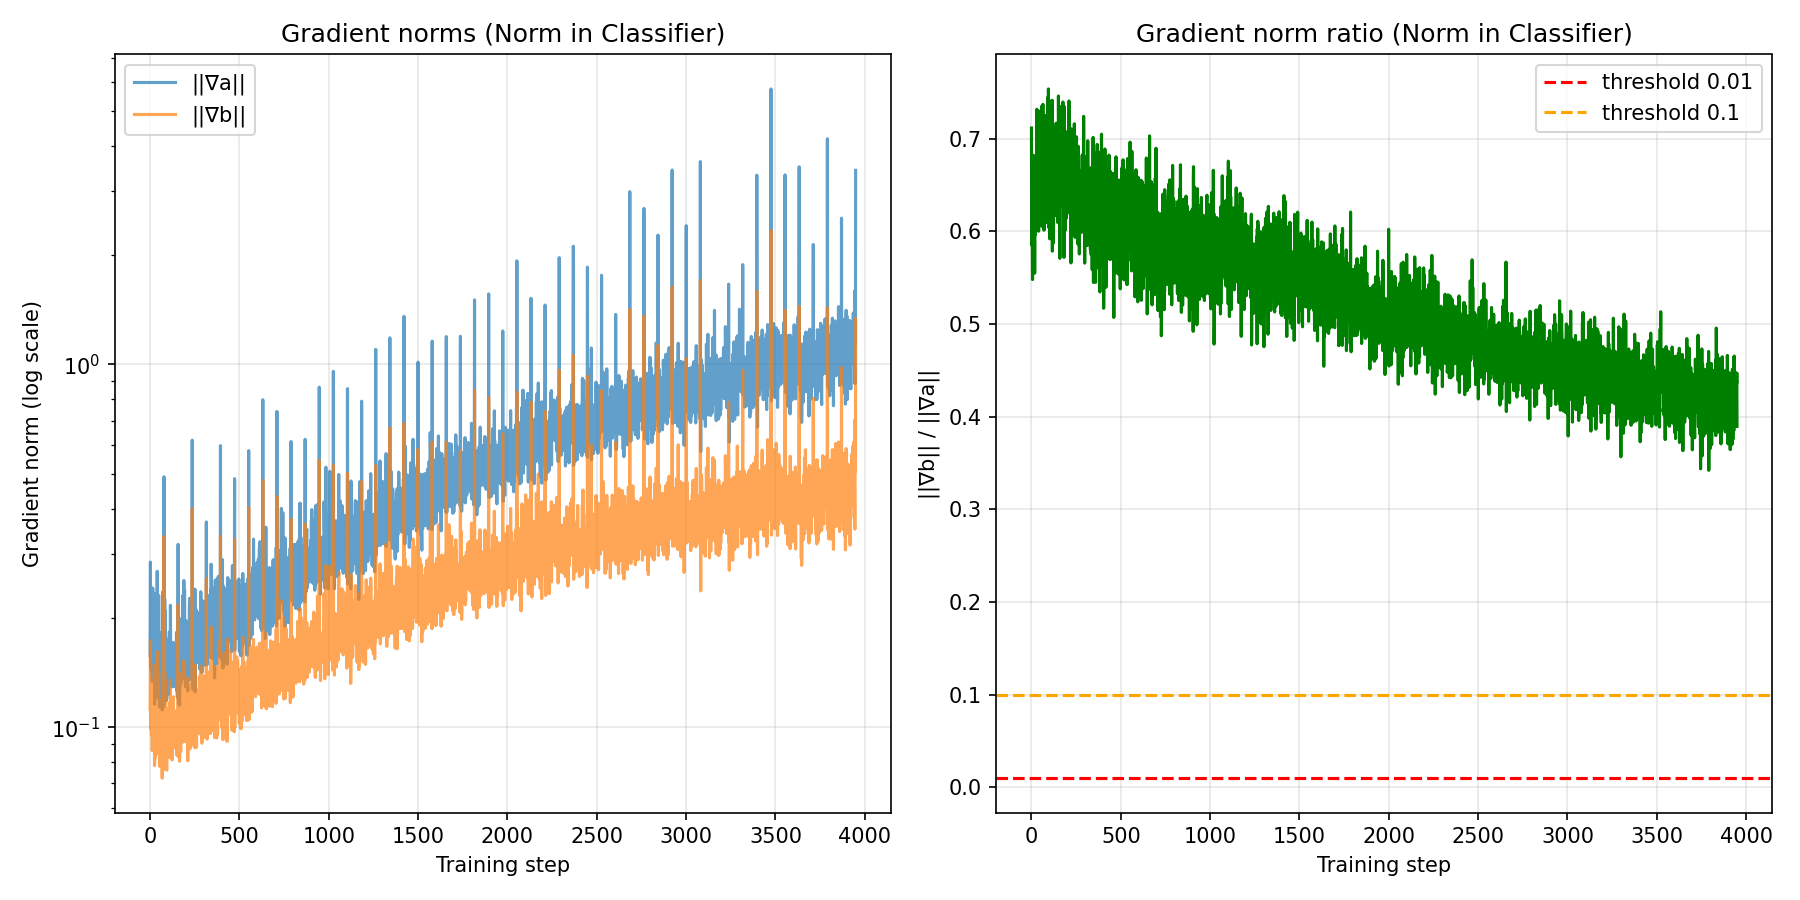
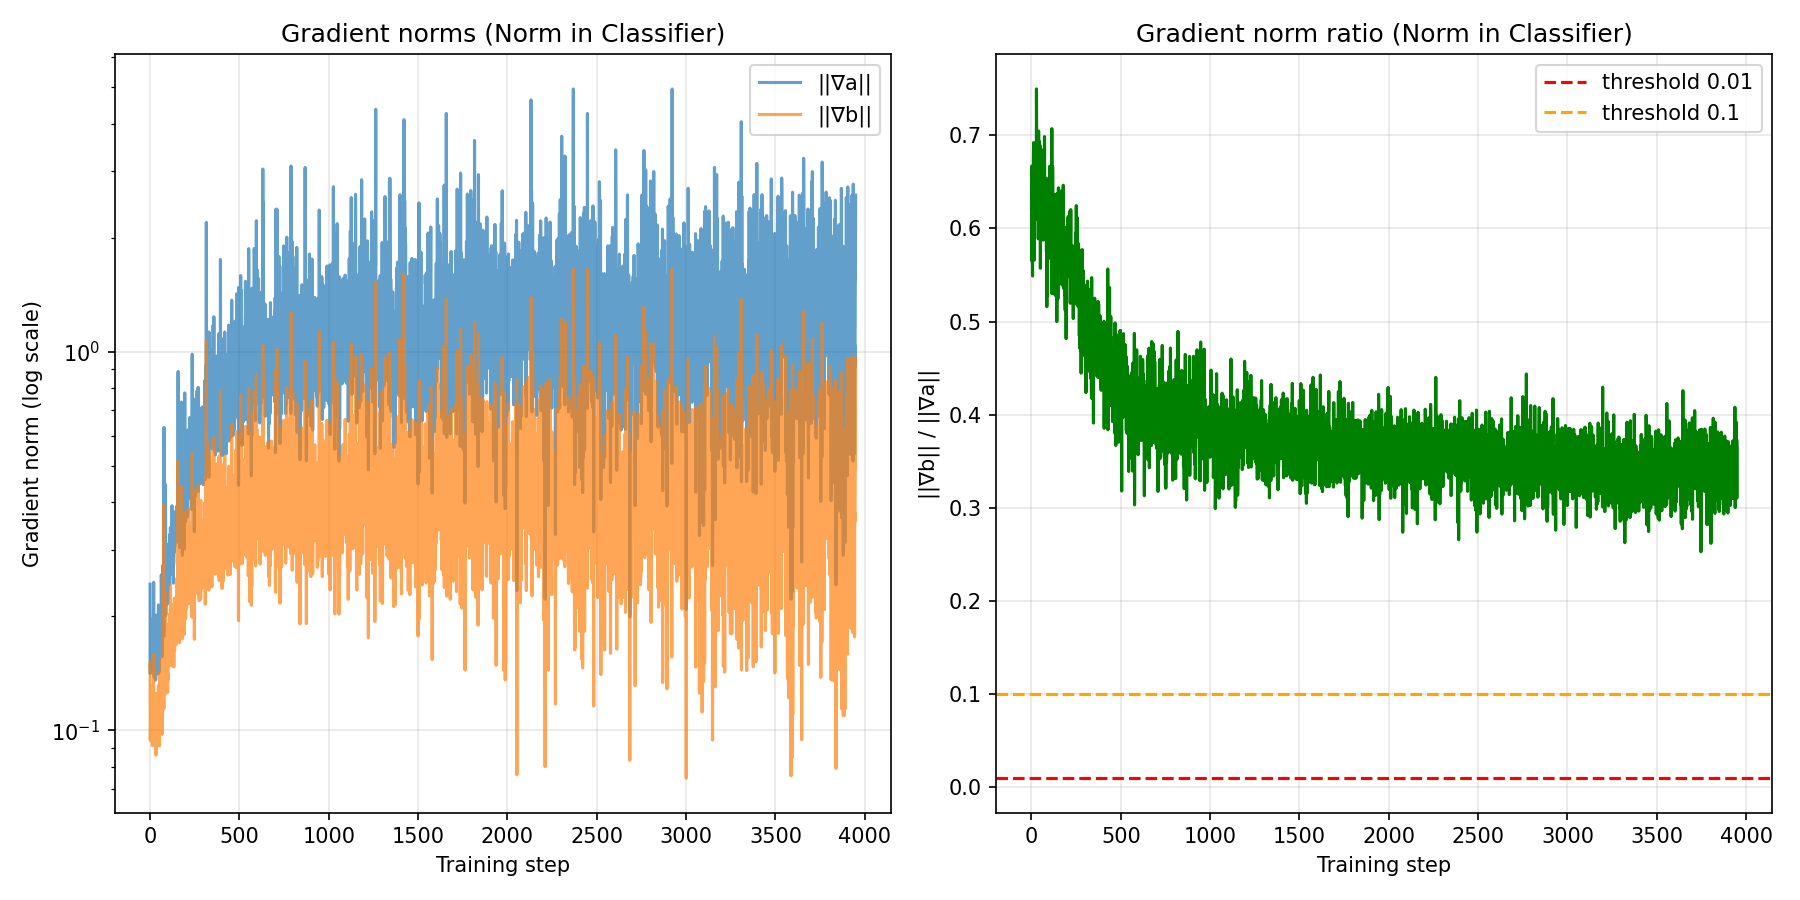
Update ablation_norm_cls.py: remove automatic conclusion, keep results only

diff --git a/experiments/ablation_norm_cls.py b/experiments/ablation_norm_cls.py
@@ -64,11 +64,11 @@ def main():
     BATCH_SIZE = 64
     EPOCHS = 100
     LR = 1e-3
-    WEIGHT_DECAY = 1e-4
     SEED = 42
     EMBED_DIM = 64
     NUM_HEADS = 4
-    DROPOUT = 0.3
+    DROPOUT = 0.1
+    WEIGHT_DECAY = 1e-5
 
     torch.manual_seed(SEED)
 
@@ -144,13 +144,6 @@ def main():
     logger.info(f"Full model:   {full_acc * 100:.2f}%")
     logger.info(f"Ablation (b=0): {ablation_acc * 100:.2f}%")
     logger.info(f"Difference: {diff * 100:.2f} pp")
-
-    if diff > 0.02:
-        logger.info("b-component CONTRIBUTES POSITIVELY to quality")
-    elif diff < -0.02:
-        logger.info("b-component HURTS quality (acts as noise)")
-    else:
-        logger.info("b-component DOES NOT AFFECT quality")
 
 
 if __name__ == "__main__":

diff --git a/experiments/train_norm_cls.py b/experiments/train_norm_cls.py
@@ -54,11 +54,11 @@ def main():
     BATCH_SIZE = 64
     EPOCHS = 100
     LR = 1e-3
-    WEIGHT_DECAY = 1e-4
+    WEIGHT_DECAY = 1e-5
     SEED = 42
     EMBED_DIM = 64
     NUM_HEADS = 4
-    DROPOUT = 0.3
+    DROPOUT = 0.1
 
     torch.manual_seed(SEED)
 
@@ -79,7 +79,7 @@ def main():
     opt_real = torch.optim.Adam(real_model.parameters(), lr=LR)
     crit = nn.CrossEntropyLoss()
 
-    logger.info("Training Dual Model with Norm in Classifier (dropout + weight_decay)")
+    logger.info("Training Dual Model with Norm in Classifier (dropout=0.1, weight_decay=1e-5)")
     best_acc = 0.0
     best_epoch = 0
     patience = 20

diff --git a/dual_attention/models/dual_classifier_norm_cls.py b/dual_attention/models/dual_classifier_norm_cls.py
@@ -8,7 +8,7 @@ from dual_attention.layers.pooling import DualAvgPool
 
 
 class DualClassifierWithNormClassifier(nn.Module):
-    def __init__(self, vocab_size, seq_len, embed_dim=64, num_heads=4, dropout=0.3):
+    def __init__(self, vocab_size, seq_len, embed_dim=64, num_heads=4, dropout=0.1):
         super().__init__()
         self.embed = nn.Embedding(vocab_size, embed_dim)
         self.attn = DualSelfAttention(embed_dim, num_heads=num_heads)